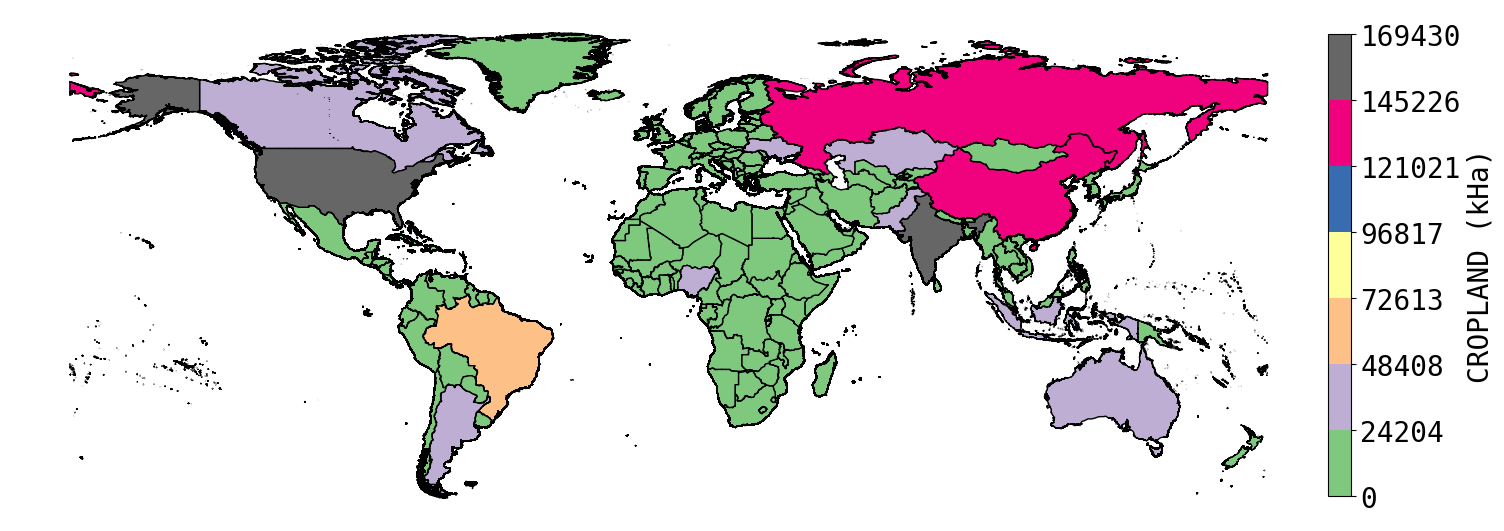
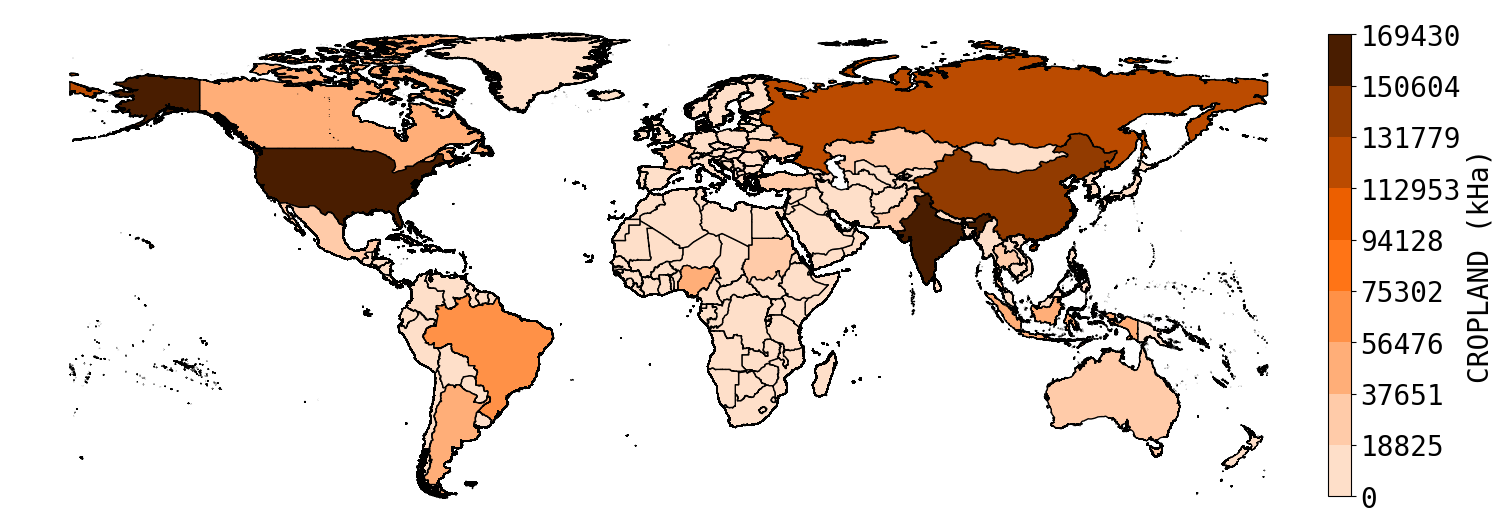
Update visualizer for FAO

diff --git a/utils/tools/visualizer.py b/utils/tools/visualizer.py
@@ -13,6 +13,27 @@ font = {'family': 'monospace',
 
 matplotlib.rc('font', **font)
 
+CROPLAND_CMAP10 = colors.ListedColormap([
+    '#FEDFC9', '#FFCBA9', '#FFAE78',
+    '#FF9147', '#FF7416', '#EC5F00',
+    '#BB4B00', '#923B00', '#7A3100',
+    '#491D00'
+])
+
+PASTURE_CMAP10 = colors.ListedColormap([
+    '#C9FEC9', '#A1FFA1', '#78FF78',
+    '#57FF57', '#06FF06', '#00D400',
+    '#00A300', '#007200', '#005100',
+    '#002000'
+])
+
+LAND_COVER_CMAP17 = colors.ListedColormap([
+    '#193300', '#00994C', '#CCCC00', '#CC6600', '#CCFFE5',
+    '#4C0099', '#0000CC', '#CC0000', '#FF9933', '#99FFFF',
+    '#003333', '#660033', '#000033', '#6666FF', '#FFFFCC',
+    '#E5FFCC', '#E5CCFF'
+])
+
 
 def plot_gdd_map(gdd_array, output_dir=None, nodata=-32768, cmap='viridis'):
     """
@@ -116,17 +137,13 @@ def plot_land_cover_map(land_cover_array, class_lookup, output_dir=None, nodata=
     # Remove null values
     land_cover_array[land_cover_array == nodata] = np.nan
 
-    # Default colormap
-    cmap = colors.ListedColormap(['#193300', '#00994C', '#CCCC00', '#CC6600', '#CCFFE5',
-                                  '#4C0099', '#0000CC', '#CC0000', '#FF9933', '#99FFFF',
-                                  '#003333', '#660033', '#000033', '#6666FF', '#FFFFCC',
-                                  '#E5FFCC', '#E5CCFF'])
+    # Use land cover default colormap
     boundaries = [min(class_index_list) - 0.5] + [i + 0.5 for i in class_index_list]
-    norm = colors.BoundaryNorm(boundaries, cmap.N, clip=True)
+    norm = colors.BoundaryNorm(boundaries, LAND_COVER_CMAP17.N, clip=True)
 
     # Plot
     fig, ax = plt.subplots(figsize=(18, 18))
-    im = ax.imshow(land_cover_array, cmap=cmap, norm=norm)
+    im = ax.imshow(land_cover_array, cmap=LAND_COVER_CMAP17, norm=norm)
     plt.axis('off')
 
     axins = inset_axes(ax,

diff --git a/census_processor/world.py b/census_processor/world.py
@@ -1,6 +1,6 @@
 import geopandas as gpd
 from utils.tools.fao import *
-from utils.tools.visualizer import plot_FAO_census
+from utils.tools.visualizer import plot_FAO_census, CROPLAND_CMAP10, PASTURE_CMAP10
 
 
 class World:
@@ -289,7 +289,7 @@ class World:
             output_dir (str): output dir (Default: None)
         """
         plot_FAO_census(self.census_table, 'CROPLAND',
-                        cmap='Accent', num_bins=8, label='CROPLAND (kHa)',
+                        cmap=CROPLAND_CMAP10, num_bins=10, label='CROPLAND (kHa)',
                         output_dir=output_dir)
 
     def plot_pasture(self, output_dir=None):
@@ -300,5 +300,5 @@ class World:
             output_dir (str): output dir (Default: None)
         """
         plot_FAO_census(self.census_table, 'PASTURE',
-                        cmap='Dark2', num_bins=8, label='PASTURE (kHa)',
+                        cmap=PASTURE_CMAP10, num_bins=10, label='PASTURE (kHa)',
                         output_dir=output_dir)
